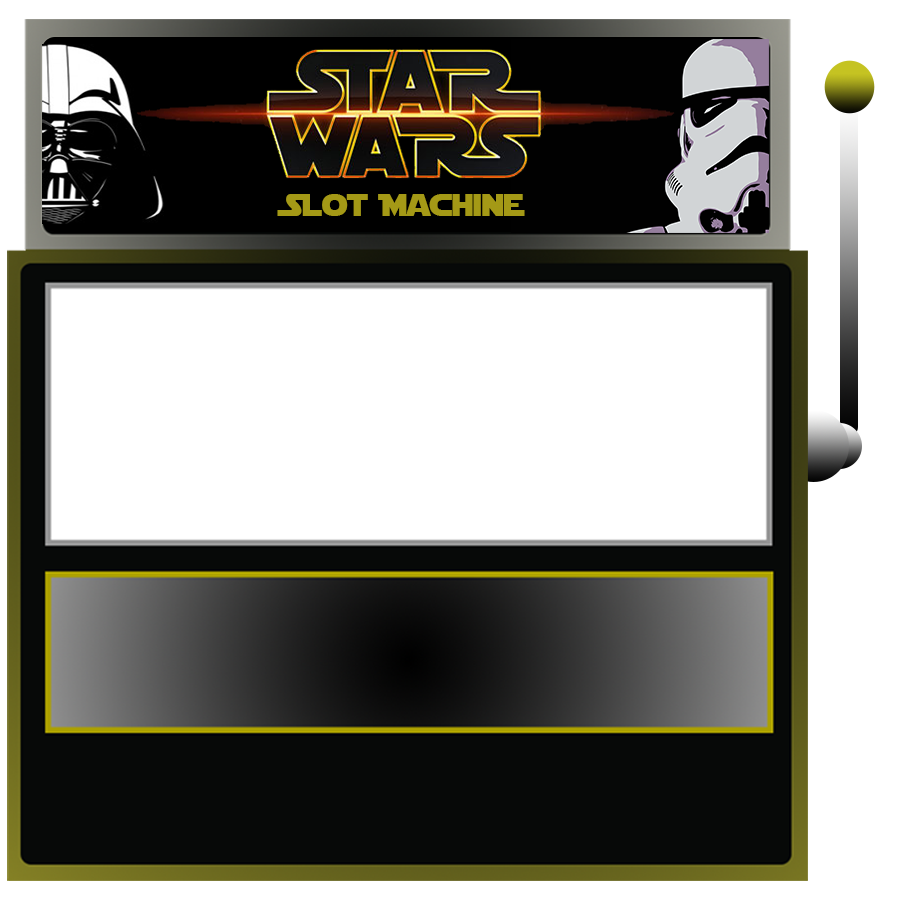
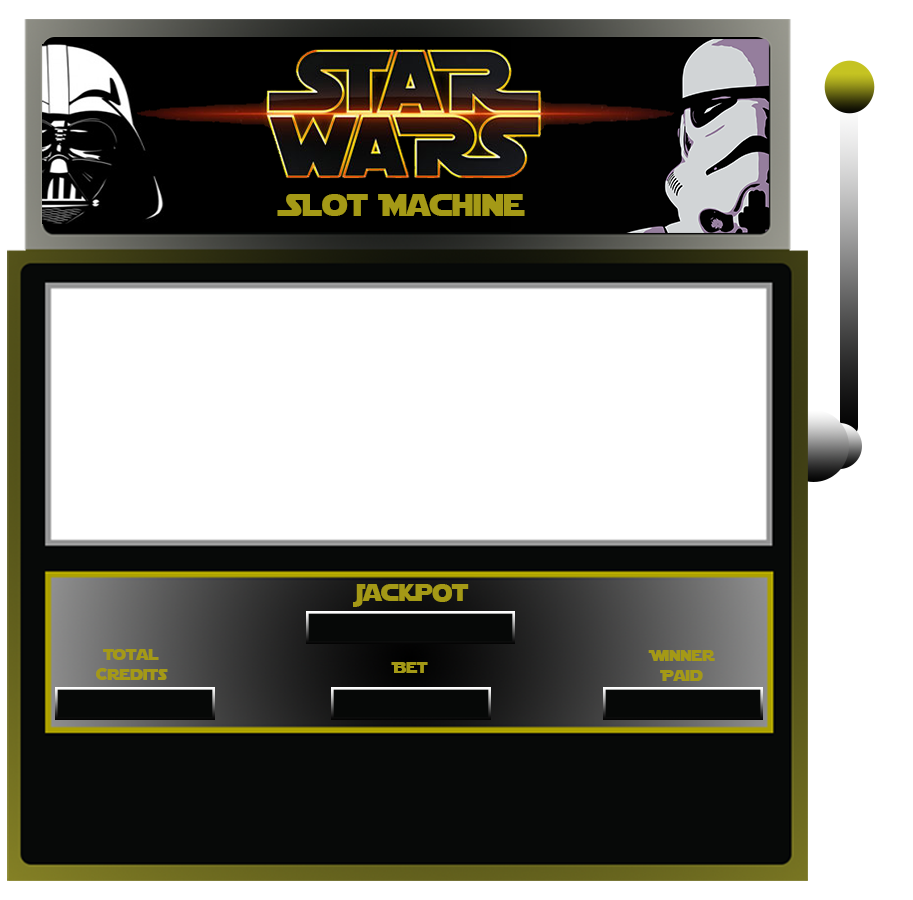
Added and positioned spinButton.png, edited background image, positioned statistic elements, altered output in main.js

diff --git a/slotmachine/index.html b/slotmachine/index.html
@@ -11,35 +11,30 @@
         <h1>Slot Machine</h1>
         <div>
             <h2>Player Statistics</h2>
-            <hr />
             <ul id="playerStats">
-                <li id="jackpot">Jackpot: 500</li>
-                <li id="playerMoney">Player Money: 1000</li>
+                <li id="jackpot">500</li>
+                <li id="playerMoney">1000</li>
                 <li id="playerTurn">Turn: 0</li>
                 <li id="playerWins">Wins: 0</li>
                 <li id="playerLosses">Losses: 0</li>
                 <li id="playerWinRatio">Win Ratio: 0%</li>
             </ul>
-            <hr />
         </div>
 
         <div id="betEntry">
 
-            <p>Place Your Bet Here</p>
             <input id="playerBet" name="points" value="10">
-            <hr />
+
         </div>
 
 
-        <button id="spinButton">Spin!</button>
+        <div id="spinButton"><img src="img/spinButton.png" /></div>
     </div>
 
     <div id="result">
-        <h2>Spin Result</h2>
-        <hr />
         <p></p>
     </div>
-    <hr />
+
     <div id="winOrLose">
         <p></p>
     </div>

diff --git a/slotmachine/css/main.css b/slotmachine/css/main.css
@@ -2,11 +2,62 @@
     background-image: url(../img/starwarsslotmachine.png);
     background-repeat: no-repeat;
     background-color: #000000;
-    
+    color: yellow;
 }
 
 ul#playerStats {
     list-style-type: none;
     padding: 0;
     margin: 5px;
+}
+
+div#spinButton {
+    position: absolute;
+    left: 270px;
+    top: 750px;
+
+}
+
+li#jackpot {
+    position: absolute;
+    left: 309px;
+    top: 618px;
+    color: yellow;
+    text-align: center;
+    width: 203px;
+
+}
+
+li#playerMoney {
+    position: absolute;
+    left: 60px;
+    top: 694px;
+    width: 150px;
+    text-align: center;
+
+}
+
+div#betEntry {
+    position: absolute;
+    left: 336px;
+    top: 694px;
+
+}
+
+div#winOrLose {
+    margin: 0;
+    position: absolute;
+    width: 150px;
+    text-align: center;
+    left: 610px;
+    top: 680px;
+}
+
+input#playerBet {
+    background: transparent;
+    border: 0;
+    text-align: center;
+    width: 150px;
+    color: yellow;
+
 }

diff --git a/slotmachine/js/main.js b/slotmachine/js/main.js
@@ -21,8 +21,8 @@ var blanks = 0;
 /* Utility function to show Player Stats */
 function showPlayerStats() {
     winRatio = winNumber / turn;
-    $("#jackpot").text("Jackpot: " + jackpot);
-    $("#playerMoney").text("Player Money: " + playerMoney);
+    $("#jackpot").text(jackpot);
+    $("#playerMoney").text(playerMoney);
     $("#playerTurn").text("Turn: " + turn);
     $("#playerWins").text("Wins: " + winNumber);
     $("#playerLosses").text("Losses: " + lossNumber);
